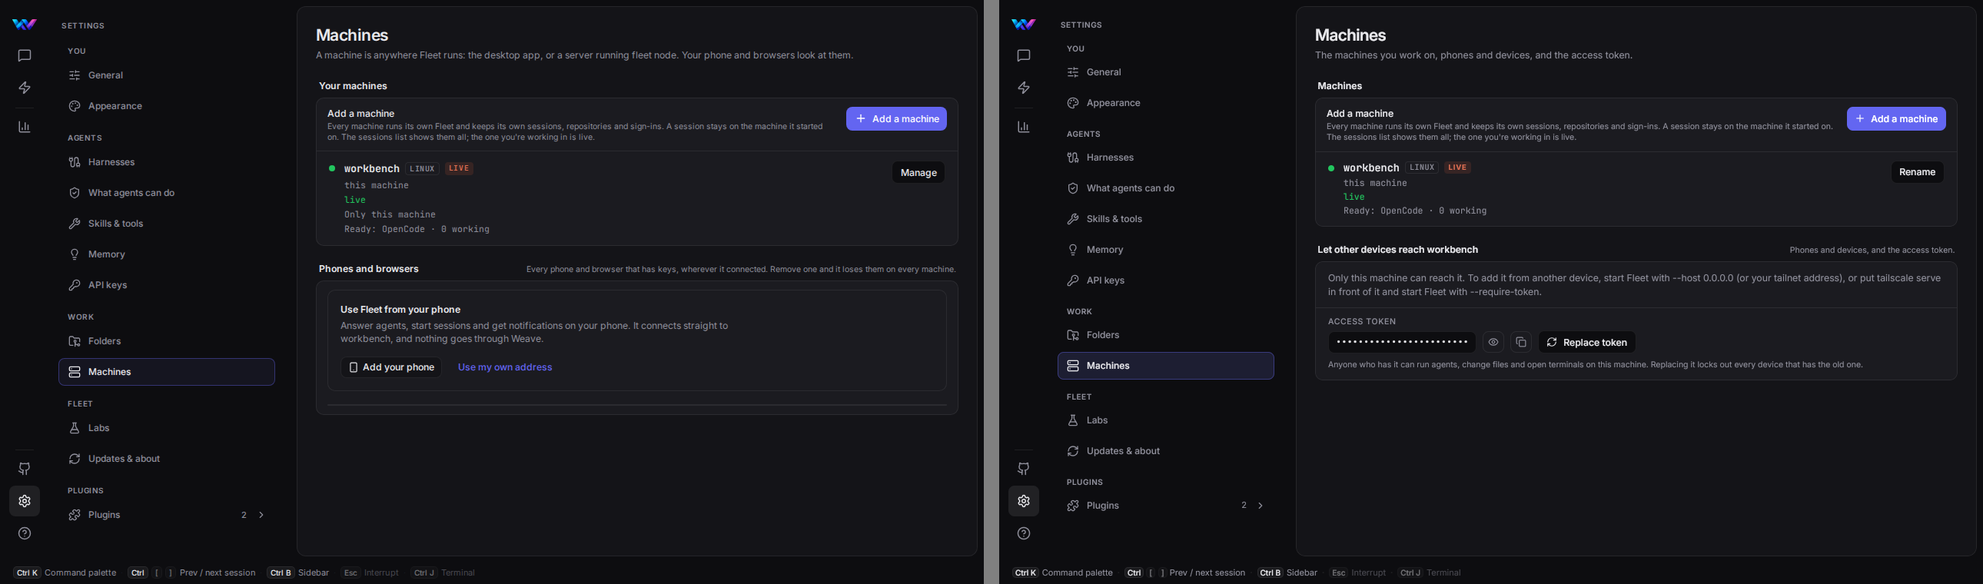
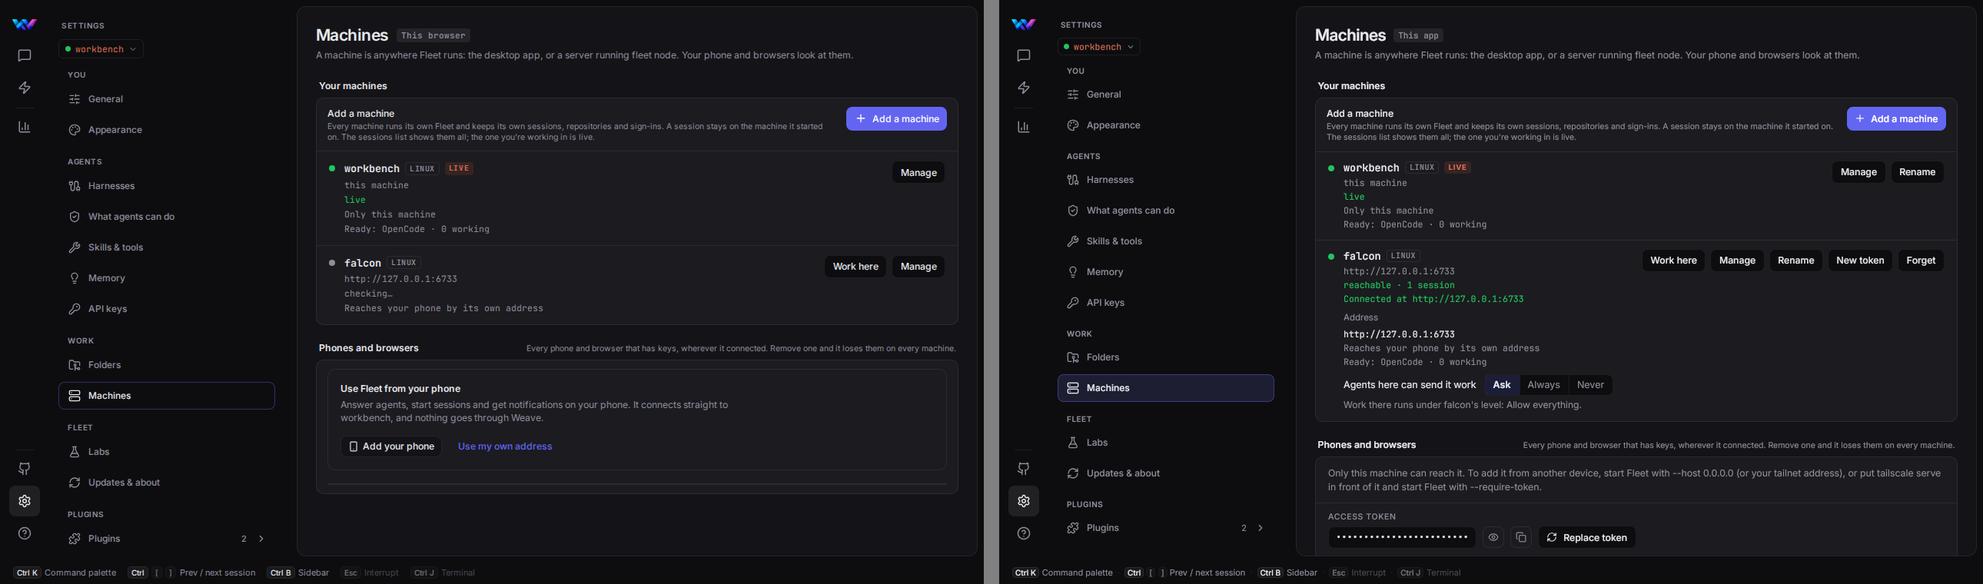
Component 26, piece F: the Machines list (page line, Your machines, reach line, Manage, Fleet-wide Forget) (#455)

diff --git a/src/tests_machines_page.rs b/src/tests_machines_page.rs
@@ -140,7 +140,10 @@ fn asks_before_forgetting_a_machine_and_keeps_it_when_cancelled() {
     let mut rt = page();
     click(&mut rt, "machine-forget-m-falcon");
     let c = rt.state.ui.confirm.as_ref().expect("asked");
-    assert_eq!((c.title.as_str(), c.confirm_label.as_str(), c.destructive), ("Forget falcon?", "Forget machine", true));
+    assert_eq!(
+        (c.title.as_str(), c.confirm_label.as_str(), c.destructive),
+        ("Forget falcon on every machine in your Fleet?", "Forget falcon", true)
+    );
     click(&mut rt, "confirm-cancel");
     assert!(rt.state.ui.confirm.is_none());
     assert!(exists(&rt, "machine-card-m-falcon"), "cancelled: the machine stays");
@@ -356,4 +359,94 @@ fn the_access_is_read_once_per_visit_and_a_missing_one_is_said() {
     rig.rt.frame(FRAME);
     rig.wait("the access answer", |s| s.machine_page.access == AccessState::Unavailable);
     assert!(words(&rig.rt, "machine-access-note").contains("doesn't hand out access tokens"));
+}
+
+// ── the list (26 F) ────────────────────────────────────────────────────────────
+
+fn address(url: &str, kind: crate::fleet::machine::Kind) -> crate::fleet::machine::Address {
+    crate::fleet::machine::Address { url: url.into(), kind, learned: true, last_result: None, last_tried_at: None }
+}
+
+fn reach_state(mode: crate::fleet::machines::reach::ReachMode) -> crate::fleet::machines::reach::ReachState {
+    crate::fleet::machines::reach::ReachState {
+        available: true,
+        mode,
+        own_address: None,
+        own_port: 6262,
+        listening: vec![],
+        found: vec![],
+        tailscale: None,
+    }
+}
+
+#[test]
+fn gives_every_machine_a_line_on_how_a_phone_reaches_it_and_takes_out_let_other_devices_reach() {
+    use crate::fleet::machine::Kind;
+    use crate::fleet::machines::reach::ReachMode;
+    let mut rt = page();
+    rt.update(|s, _| {
+        if let Some(m) = s.machines.list.iter_mut().find(|m| m.id == "m-falcon") {
+            m.addresses = vec![address("http://falcon.tail4f2a.ts.net:6262", Kind::Tailnet)];
+        }
+        s.machine_data.reach = Some(reach_state(ReachMode::Home));
+    });
+    rt.frame(FRAME);
+    assert_eq!(words(&rt, "machine-reach-line-m-falcon"), "Only on Tailscale");
+    assert_eq!(
+        words(&rt, &format!("machine-reach-line-{}", crate::fleet::settings::HOME_MACHINE_KEY)),
+        "Reaches your phone on the home network"
+    );
+    let all: String = rt.elements().iter().filter_map(|e| e.text.clone()).collect();
+    assert!(all.contains(
+        "A machine is anywhere Fleet runs: the desktop app, or a server running fleet node. Your phone and browsers look at them."
+    ));
+    assert!(all.contains("Your machines"), "the group is named for what it lists");
+    assert!(!all.contains("Let other devices reach"), "the token card is Who can reach it, on home's own page");
+}
+
+#[test]
+fn a_machine_that_stopped_answering_says_so_in_the_error_colour() {
+    let mut rt = page();
+    rt.update(|s, _| {
+        s.machines.others.entry("m-falcon".into()).or_default().error = Some("down".into());
+    });
+    rt.frame(FRAME);
+    let line = card_of(&rt, "m-falcon").reach.unwrap();
+    assert!(line.text.starts_with("Off since "), "the last read's time, as Fleet says it: {}", line.text);
+    rt.update(|s, _| s.machines.others.entry("m-falcon".into()).or_default().loaded_at = None);
+    let line = card_of(&rt, "m-falcon").reach.unwrap();
+    assert_eq!(line.text, "Not reachable");
+    assert_eq!(line.tone, crate::fleet::machines::reach::Tone::Out);
+}
+
+#[test]
+fn forgetting_a_machine_saying_it_reaches_every_machine() {
+    let mut rt = page();
+    click(&mut rt, "machine-forget-m-falcon");
+    let c = rt.state.ui.confirm.as_ref().expect("asked");
+    assert_eq!(c.title, "Forget falcon on every machine in your Fleet?");
+    assert_eq!(c.confirm_label, "Forget falcon");
+    assert!(c.destructive);
+    assert!(c.body.starts_with("Every machine drops it from its list and its keys stop working, even on machines that are off now"));
+    click(&mut rt, "confirm-cancel");
+    // An SSH machine keeps the old words: only this device lists it.
+    rt.update(|s, _| {
+        if let Some(m) = s.machines.list.iter_mut().find(|m| m.id == "m-falcon") {
+            m.ssh_destination = Some("maya@falcon.example".into());
+        }
+    });
+    rt.frame(FRAME);
+    click(&mut rt, "machine-forget-m-falcon");
+    let c = rt.state.ui.confirm.as_ref().expect("asked");
+    assert_eq!((c.title.as_str(), c.confirm_label.as_str()), ("Forget falcon?", "Forget machine"));
+}
+
+#[test]
+fn manage_opens_the_machines_own_page_and_work_here_is_not_on_the_live_machine() {
+    let mut rt = page();
+    let home = crate::fleet::settings::HOME_MACHINE_KEY;
+    assert!(!exists(&rt, &format!("machine-open-{home}")), "the live machine has no Work here");
+    assert!(exists(&rt, "machine-open-m-falcon"));
+    click(&mut rt, "machine-manage-m-falcon");
+    assert_eq!(rt.state.machine_page.managing.as_deref(), Some("m-falcon"));
 }

diff --git a/src/fleet/machine_actions.rs b/src/fleet/machine_actions.rs
@@ -109,6 +109,8 @@ pub struct Page {
     pub copied: Option<(String, f64)>,
     /// The page was opened once, so the access is read once per visit.
     pub opened: bool,
+    /// The machine whose own page is open (Manage); piece G draws the page.
+    pub managing: Option<String>,
     /// The address lists' own state (`MachineAddressList.vue`).
     pub addresses: super::machine_addresses::Lists,
 }
@@ -175,10 +177,17 @@ impl State {
             return false;
         }
         self.machine_page.access = AccessState::Loading;
+        // The reach line on home's card needs who the desktop app lets reach it.
+        self.read_reach();
         if let Some(link) = self.link.clone() {
             link.off_thread(read_access, |s, _, access| s.machine_page.access = access);
         }
         true
+    }
+
+    /// Manage (`page.open`): the section gives way to the machine's own page. Piece G draws it.
+    pub fn manage_machine(&mut self, key: &str) {
+        self.machine_page.managing = Some(key.to_string());
     }
 
     // ---- rename -----------------------------------------------------------------------------------------------------------
@@ -354,11 +363,28 @@ impl State {
     /// The Forget button (`forget`): asks first. Its sessions stay on the machine; this app just stops listing them.
     pub fn ask_forget_machine(&mut self, key: &str, tx: &mut Tx) {
         let Some(name) = self.card_name(key).filter(|_| key != HOME_MACHINE_KEY) else { return };
+        // An SSH machine is only this device's own entry; any other is forgotten by every machine in the Fleet (#1087).
+        let ssh = self.machines.machine(key).is_some_and(|m| m.ssh_destination.is_some());
+        let (title, body, confirm_label) = if ssh {
+            (
+                format!("Forget {name}?"),
+                format!("Its sessions stay on {name}; this device just stops listing them."),
+                "Forget machine".to_string(),
+            )
+        } else {
+            (
+                format!("Forget {name} on every machine in your Fleet?"),
+                format!(
+                    "Every machine drops it from its list and its keys stop working, even on machines that are off now: they hear when they're back. Its sessions stay on {name}. To use it again, add it again with its pairing code."
+                ),
+                format!("Forget {name}"),
+            )
+        };
         let confirm = Confirm {
-            title: format!("Forget {name}?"),
+            title,
             subject: name.clone(),
-            body: format!("Its sessions stay on {name}; this device just stops listing them."),
-            confirm_label: "Forget machine".into(),
+            body,
+            confirm_label,
             busy_label: "Forgetting…".into(),
             error_message: "Couldn't forget the machine.".into(),
             destructive: true,

diff --git a/src/fleet/machine_card.rs b/src/fleet/machine_card.rs
@@ -3,6 +3,7 @@
 //! draws it, so every word is testable without a window.
 use super::machine::{Address, AddressResult, Kind, kind_of};
 use super::machine_diagnosis::Diagnosis;
+use super::machines::reach::{ReachLine, ReachLineInput};
 use super::machines::{AgentWork, Capabilities, Entry, Machines, Source};
 use crate::State;
 
@@ -38,6 +39,8 @@ pub struct Card {
     pub route: Option<Route>,
     /// Where the machine can be reached, in the order Fleet tries them (`addressesOf`); none for home or an SSH machine.
     pub addresses: Vec<AddressRow>,
+    /// How a phone reaches it (`reachOf`); set by `State::machine_cards`, which knows home's access and reach.
+    pub reach: Option<ReachLine>,
 }
 
 /// `routeLine`: how this app is connected, from the kind of the address in use.
@@ -194,6 +197,7 @@ impl Machines {
                     diagnosis: why,
                     route,
                     addresses,
+                    reach: None,
                 }
             })
             .collect()
@@ -201,10 +205,35 @@ impl Machines {
 }
 
 impl State {
+    /// `reachOf` (`use-machine-lines.ts`): home's addresses come from its access, another machine's from its own list.
+    fn reach_of(&self, card: &Card, offset: impl Fn(i64) -> i64) -> ReachLine {
+        use super::machine_actions::AccessState;
+        let kinds: Vec<Kind> = if card.is_home {
+            match &self.machine_page.access {
+                AccessState::Loaded(a) => a.addresses.iter().map(|x| kind_of(&x.url)).collect(),
+                _ => Vec::new(),
+            }
+        } else {
+            self.machines.machine(&card.key).map(|m| m.addresses.iter().map(|a| a.kind).collect()).unwrap_or_default()
+        };
+        let state = self.machine_data.reach.as_ref().filter(|r| card.is_home && r.available);
+        let loaded_at = self.machines.others.get(&card.key).and_then(|o| o.loaded_at);
+        let input = ReachLineInput {
+            answering: self.machines.is_answering(&card.key),
+            offline_since: loaded_at,
+            addresses: &kinds,
+            reach_mode: state.map(|r| r.mode),
+            own_address: self.machine_data.reach.as_ref().and_then(|r| r.own_address.as_deref()),
+        };
+        super::machines::reach::reach_line(&input, offset(loaded_at.unwrap_or(0)))
+    }
+
     /// The cards, with an address list drawn in the order just asked for while that order is being saved.
     pub fn machine_cards(&self) -> Vec<Card> {
         let mut cards = self.machines.cards();
+        let offset = |ms: i64| crate::conv::time::local_offset_at(ms);
         for card in &mut cards {
+            card.reach = Some(self.reach_of(card, offset));
             if let Some(order) = self.machine_page.addresses.order.get(&card.key) {
                 card.addresses.sort_by_key(|a| order.iter().position(|u| *u == a.url).unwrap_or(usize::MAX));
             }

diff --git a/src/view/machines_page.rs b/src/view/machines_page.rs
@@ -1,5 +1,5 @@
 //! Settings → Machines (`MachinesSection.vue`, inside `SettingsPage.vue`'s detail pane): the machines this app knows as cards, and
-//! "This machine", how other devices reach it, with its access token. `settings.rs` mounts `content` as the Machines page. The
+//! "Phones and browsers", which holds how other devices reach this machine and its access token until pieces G and I move them. `settings.rs` mounts `content` as the Machines page. The
 //! pairing form is piece K's, the address list and route line piece M's, phones are out.
 use super::machine_card::{card, faded};
 use super::settings::kit::{self, Row};
@@ -169,7 +169,6 @@ fn token_block(s: &State, t: &Theme, access: &Access) -> El {
 }
 
 fn access_group(s: &State, t: &Theme) -> El {
-    let name = s.machines.home.as_ref().map_or("This machine", |h| h.name.as_str());
     let rows =
         match &s.machine_page.access {
             AccessState::Loaded(access) => access_rows(s, t, access),
@@ -196,7 +195,13 @@ fn access_group(s: &State, t: &Theme) -> El {
                 )]
             }
         };
-    kit::group(t, "phones", &format!("Let other devices reach {name}"), Some("Phones and devices, and the access token."), rows)
+    kit::group(
+        t,
+        "phones",
+        "Phones and browsers",
+        Some("Every phone and browser that has keys, wherever it connected. Remove one and it loses them on every machine."),
+        rows,
+    )
 }
 
 /// The page's content: the title and its line, then the groups. The Settings shell (`settings.rs`) gives it the sheet and the scroll.
@@ -226,6 +231,6 @@ pub fn content(s: &State, t: &Theme) -> El {
         .w_full()
         .gap(21.0)
         .child(header)
-        .child(kit::group(t, "machines", "Machines", None, rows))
+        .child(kit::group(t, "machines", "Your machines", None, rows))
         .child(access_group(s, t))
 }

diff --git a/src/view/machine_card.rs b/src/view/machine_card.rs
@@ -6,6 +6,7 @@ use crate::fleet::machine_actions::{RENAME_FIELD, TOKEN_FIELD, parse_agent_work}
 use crate::fleet::machine_card::{Card, Tone};
 use crate::fleet::machine_diagnosis::{Diagnosis, StepState};
 use crate::fleet::machines::AgentWork;
+use crate::fleet::machines::reach::Tone as ReachTone;
 use crate::icons::{CHECK, CHEVRON_DOWN, CHEVRON_RIGHT, CIRCLE, CIRCLE_ALERT, X};
 use crate::theme::{RADIUS_BTN, Theme, mono, sans};
 use crate::ui::rem;
@@ -284,6 +285,10 @@ pub fn card(s: &State, t: &Theme, c: &Card) -> El {
     if let Some(list) = super::machine_addresses::list(s, t, c) {
         names = names.child(list);
     }
+    if let Some(line) = &c.reach {
+        let ink = if line.tone == ReachTone::Out { t.error_text } else { t.muted };
+        names = names.child(text(line.text.clone()).key(format!("machine-reach-line-{}", c.key)).font(small).color(ink).wrap().w_full());
+    }
     if let Some(line) = &c.capabilities {
         let mut e = text(line.clone()).key(format!("machine-capabilities-{}", c.key)).font(small).color(t.muted).wrap().w_full();
         if let Some(versions) = &c.versions {
@@ -314,6 +319,12 @@ pub fn card(s: &State, t: &Theme, c: &Card) -> El {
             actions = actions
                 .child(plain_button(t, format!("machine-open-{}", c.key), "Work here").on_press(move |s: &mut State| s.work_here(&open)));
         }
+        let manage = c.key.clone();
+        actions = actions.child(
+            plain_button(t, format!("machine-manage-{}", c.key), "Manage")
+                .label(format!("{}'s page", c.name))
+                .on_press(move |s: &mut State| s.manage_machine(&manage)),
+        );
         actions = actions.child(
             plain_button(t, format!("machine-rename-{}", c.key), "Rename")
                 .on_press_tx(move |s: &mut State, tx: &mut Tx| s.start_card_rename(&rename, tx)),

diff --git a/src/fleet/settings_nav.rs b/src/fleet/settings_nav.rs
@@ -71,7 +71,9 @@ impl Page {
             Page::Skills => "What agents can use: skills, tools and, with Mods on, mods.",
             Page::Memory => "What Fleet remembers about each repository.",
             Page::Folders => "Where your repositories are, how worktrees are named, and the disk they take.",
-            Page::Machines => "The machines you work on, phones and devices, and the access token.",
+            Page::Machines => {
+                "A machine is anywhere Fleet runs: the desktop app, or a server running fleet node. Your phone and browsers look at them."
+            }
             Page::Labs => "Experiments. They can change or go away, and each is off until you turn it on.",
             Page::Updates => "Every version and update: Fleet, harnesses and machines, and what's new.",
             Page::Credentials => "Credentials for model providers.",

diff --git a/src/fleet/machines/data.rs b/src/fleet/machines/data.rs
@@ -80,6 +80,11 @@ impl State {
     /// Reads who can reach the desktop app (`useMachineReach.load`). Without an answer the page behaves as for a Fleet that can't
     /// change it.
     pub fn load_reach(&mut self, _tx: &mut Tx) {
+        self.read_reach();
+    }
+
+    /// `load_reach` for a caller with no `Tx` (the page's visit, run from `poll`).
+    pub fn read_reach(&mut self) {
         let Some(link) = self.link.clone() else { return };
         link.off_thread(reach::load, |s, _, result| s.machine_data.reach = result.ok().flatten());
     }

diff --git a/src/tests_settings_labs.rs b/src/tests_settings_labs.rs
@@ -30,6 +30,14 @@ fn doesn_t_offer_to_keep_machines_live_with_only_this_one() {
 }
 
 #[test]
+fn has_no_your_fleet_switch_it_is_always_on() {
+    let r = rig(&[]);
+    assert!(r.info("labs-section").is_some());
+    assert!(r.info("your-fleet-switch").is_none());
+    assert!(!r.words().contains("Your Fleet"));
+}
+
+#[test]
 fn offers_it_off_once_there_s_another_machine_and_saves_the_choice() {
     let mut r = rig_with_machines(&[]);
     assert_eq!(r.info("live-machines-switch").unwrap().label.as_deref(), Some("Keep every machine live"));

diff --git a/docs/parity/26-parity-audit.md b/docs/parity/26-parity-audit.md
@@ -117,17 +117,17 @@ phone-reach.ts; `components/onboarding/FirstRunFleet.vue`.
 
 | # | Fleet | Source | Native |
 |---|---|---|---|
-| 1.40 | The page's line: "A machine is anywhere Fleet runs: the desktop app, or a server running fleet node. Your phone and browsers look at them." | #1075 SettingsPage.vue | None: old line (`src/fleet/settings_nav.rs`) |
-| 1.41 | Group "Your machines": the Add a machine row as before; after an add, "Added &lt;name&gt;. Its sessions are in the sessions list." | #1088 MachinesSection.vue | Partial: group named "Machines" |
+| 1.40 | The page's line: "A machine is anywhere Fleet runs: the desktop app, or a server running fleet node. Your phone and browsers look at them." | #1075 SettingsPage.vue | **Done (26 F)** (`settings_nav.rs` `Page::line`, asserted in `tests_machines_page`) |
+| 1.41 | Group "Your machines": the Add a machine row as before; after an add, "Added &lt;name&gt;. Its sessions are in the sessions list." | #1088 MachinesSection.vue | **Done (26 F)**: the group is "Your machines"; "Added <name>. Its sessions are in the sessions list." was already drawn (17 K) |
 | 1.42 | Each machine (`machine-card`, padding 12/16, gap 12): 8 px dot, name mono 13.5/600, OS chip, Live tag; location ("this machine", the base URL, "Over SSH as &lt;dest&gt;"); the state line as before | #1088 MachinesSection.vue, use-machine-lines.ts | Done for these parts (`src/view/machine_card.rs`) |
-| 1.43 | The **reach line** (`machine-reach-line`, error colour when out): "Off since HH:MM", "Not reachable", "Only this machine", "Reaches your phone at &lt;address&gt;", "…on the home network", "Only on Tailscale", "…over Tailscale and the home network", "…over Tailscale", "…by its own address" | #1088 `lib/machine-reach-line.ts` (+ 5 tests) | None Data done (26 E): `fleet/machines/reach.rs` `reach_line` (5 tests); drawn in F. |
+| 1.43 | The **reach line** (`machine-reach-line`, error colour when out): "Off since HH:MM", "Not reachable", "Only this machine", "Reaches your phone at &lt;address&gt;", "…on the home network", "Only on Tailscale", "…over Tailscale and the home network", "…over Tailscale", "…by its own address" | #1088 `lib/machine-reach-line.ts` (+ 5 tests) | **Done (26 F)**: `State::machine_cards` fills `Card::reach` from `reach_line`; drawn under the state line, error colour when out (`machine_card.rs`); home's reach is read once per visit (`read_reach`) |
 | 1.44 | The capability line "Ready: … · N working · N need you", harness versions as its tooltip | #1088 use-machine-lines.ts | Done (piece 17) |
-| 1.45 | Buttons: **Work here** (not on the live machine) and **Manage** (aria-label "&lt;name&gt;'s page"), which replaces the section with the machine's page. Rename, New token, agent work, Forget, the address list, Details and job seats leave the list | #1088 MachinesSection.vue | None: inline Rename and the rest (`machines_page.rs`, `machine_card.rs`, `machine_addresses.rs`) |
+| 1.45 | Buttons: **Work here** (not on the live machine) and **Manage** (aria-label "&lt;name&gt;'s page"), which replaces the section with the machine's page. Rename, New token, agent work, Forget, the address list, Details and job seats leave the list | #1088 MachinesSection.vue | **Partial (26 F)**: **Work here** (not on the live machine) and **Manage** (`aria-label` "<name>'s page") are drawn; Manage sets `machine_page.managing`, which G draws. Rename, New token, agent work, Forget, the address list, Details and job seats **stay on the list until G**: Manage opens nothing yet, so taking them off now would make them unreachable |
 | 1.46 | A machine's page: title the machine's name, line "Everything about this machine: how it is reached, and what it keeps.", trail "Machines" back | #1088 MachinePage.vue, use-machine-page.ts, SettingsPage.vue | None |
 | 1.47 | "About this machine": the list's lines plus the route line ("Connected over Tailscale…", "Tailscale isn't answering"); agent work (Ask, Always, Never and "Work there runs under &lt;name&gt;'s level: &lt;level&gt;."); job seats with Jobs on (23 14.7, 17.69); a Details fold with the diagnosis and Try again; Work here, Rename (inline, 64), Forget (not on home) | #1088 MachinePage.vue | Partial: the parts exist inline on the list Data done (26 E): the route line's words wait for F; the reach line (`reach_line`) and Fleet-wide Remove words are in `fleet/machines/`. |
 | 1.48 | "Key and addresses" (not home; hint "What this browser uses to reach the machine."): the address list; "This browser holds a key for &lt;name&gt;. If it stopped working, give it a new one." with New token and a masked "Paste the new token" field | #1088 MachinePage.vue | Partial: inline, token shown as typed (17 J(2), K(2)) |
 | 1.49 | "Who can reach it" (home only): reach off "Reachable from **this machine only**. Turn it on to use &lt;name&gt; from your phone or another machine." + **Let others reach &lt;name&gt;**; reach on "Reachable from other devices: **&lt;label&gt;**. Each one needs its own key." + Change; the Tailscale note; addresses with a kind chip and Copy; the access token (24 bullets, Show/Hide, Copy, Replace token) | #1088 MachinePage.vue, use-home-access.ts | Partial: the token card exists as "Let other devices reach &lt;name&gt;" (`machines_page.rs:199`) Data done (26 E): `reach::load`/`save`, `ReachState`, `State::load_reach`/`set_reach`; the page is H/J. |
-| 1.50 | Forget, Fleet-wide: "Forget &lt;name&gt; on every machine in your Fleet?" / "Every machine drops it from its list and its keys stop working, even on machines that are off now: they hear when they're back. Its sessions stay on &lt;name&gt;. To use it again, add it again with its pairing code." / **Forget &lt;name&gt;**; an SSH machine keeps the old words; the page closes when the machine leaves | #1087 MachinesSection.vue, MachinePage.vue | None: old words (`src/fleet/machine_actions.rs:360`) |
+| 1.50 | Forget, Fleet-wide: "Forget &lt;name&gt; on every machine in your Fleet?" / "Every machine drops it from its list and its keys stop working, even on machines that are off now: they hear when they're back. Its sessions stay on &lt;name&gt;. To use it again, add it again with its pairing code." / **Forget &lt;name&gt;**; an SSH machine keeps the old words; the page closes when the machine leaves | #1087 MachinesSection.vue, MachinePage.vue | **Done (26 F)**: `ask_forget_machine` says the Fleet-wide words for a machine home reaches by address and the old words for an SSH one (test "forgetting a machine, saying it reaches every machine"). "The page closes when the machine leaves" is G (no page yet) |
 | 1.51 | Add a machine: four tabs "How to add the machine", opening on **Found**; Set it up from here (SSH, unchanged); On a new server; Paste a pairing link. Cancel reads "Close" while an SSH set-up runs | #1084, #1089 MachinesSection.vue | None: the link form only (`src/view/add_machine.rs`); SSH is owner decision 5 |
 | 1.52 | **Found**: `GET /api/machines/found` every 4 s; intro "On the other machine, run `fleet node up` (or `fleet node pair`)…"; "Looking on Tailscale and your home network…"; empty state "No machine is waiting" with "Paste a pairing link instead"; rows "&lt;name&gt; · &lt;OS&gt;" and "On Tailscale. Waiting to join." / "On your home network. Waiting to join."; the code field "Check the code in &lt;name&gt;'s terminal" (hint "ABCD-" + 4 more, or the whole code if it starts with the hint); **Add &lt;name&gt;** / "Checking…"; errors with the diagnosis panel | #1084 FoundMachinesCard.vue (+ 5 tests) | None Data done (26 E): `found.rs` `load_found` (every `LOOK_EVERY` = 4 s, timer waits for the view), `FoundMachine::code_for`, labels; the card is H. |
 | 1.53 | **On a new server**: `POST /api/machines/join-code`; "Making a join code…"; the `curl … install.sh \| sh -s -- --join '<target>'` line with Copy; the warning "Works once, for 30 minutes. Anyone who has the line can add a machine to &lt;name&gt;, so treat it like a password."; "Waiting for a machine to join… The code expires &lt;countdown&gt;." (reads `/api/machines` every 3 s; a new id closes the form with its name); "This code has expired." + Make a new code; "Couldn't make a join code." | #1089 NewServerCard.vue (+ 8 tests) | None Data done (26 E): `found.rs` `make_join_code`, `JoinState`; the countdown, the 3 s read of `/api/machines` and the card are H. The v0.74.0 scratch Fleet answers 400 ("only listens on this machine") until reach is on. |
@@ -139,7 +139,7 @@ phone-reach.ts; `components/onboarding/FirstRunFleet.vue`.
 | 1.59 | The join notice: every screen looks for waiting machines every 20 s; "&lt;name&gt; wants to join your Fleet" / "It is waiting on Tailscale (your home network). Check the code it shows, then add it."; chip "&lt;name&gt; wants to join"; **Add &lt;name&gt;** (Settings → Machines → Add → Found) and Not now. Always on since #1094 | #1086, #1094 use-join-prompt.ts, AppShell.vue (+ 2 tests) | None |
 | 1.60 | The desktop's first run, once (`fleet.first-run-fleet.v1`): "Found your Fleet" (the Found card and Not now), then "Where should new sessions run?" with a button per machine ("This machine (&lt;name&gt;)" for the live one) | #1086 FirstRunFleet.vue (+ 3 tests) | None |
 | 1.61 | The setup wizard's ready step: "A machine is anywhere Fleet runs…" and the "Use Fleet from your phone" card with Add your phone → Settings → Machines | #1075 HarnessSetupWizard.vue (+ 1 test) | None |
-| 1.62 | Labs "Your Fleet" row added then removed (always on); test "has no Your Fleet switch: it is always on" | #1079 → #1094 LabsSection.vue | Done (no row); the test isn't ported |
+| 1.62 | Labs "Your Fleet" row added then removed (always on); test "has no Your Fleet switch: it is always on" | #1079 → #1094 LabsSection.vue | Done (no row); test ported (26 F, `tests_settings_labs`) |
 
 #### 1e. The desktop app (component 24)
 
@@ -526,6 +526,13 @@ then the walks (AE to AI), then the report.
   reach'", "forgetting a machine, saying it reaches every machine".
 - **Pictures:** this file's `machines-*` pair retaken: the list matching Fleet's, both themes; a second machine (a second
   scratch Fleet) for Work here.
+- **Done (26 F):** the page line, "Your machines", the reach line, Manage, Fleet-wide Forget, the Labs test. Left for
+  G on purpose: taking Rename, New token, agent work, Forget, the addresses and Details off the list (they need
+  Manage's page first), and the group below the list, which is still the token card under Fleet's "Phones and browsers"
+  heading and hint until G moves the token to home's page and I draws the devices. Pictures: `machines-dark.png` and
+  `machines-light.png` here (Fleet v0.74.0 left, native right, a second scratch Fleet as "falcon" with Work here).
+  Fleet's page shows falcon as "checking…" because the scratch browser can't read its sessions; native reads them
+  through home. Source read at weave-fleet `main` (4ea50d1): the v0.74.0 commit wasn't reachable in a shallow clone.
 
 ### G. Machines 3: a machine's own page
 

diff --git a/docs/PORT.md b/docs/PORT.md
@@ -166,7 +166,7 @@ records that commit in its checklist, so the port tracks Fleet as it is, not as 
 | | **Milestone 4: replaces Electron** | | | | |
 | 24 | Desktop shell | Starts its own server when none is running, one instance, tray, menus, notifications, deep links, window position, the shell environment. | weave-fleet's `desktop/src` | 1,200 (TS) | Done, 20 November 2026 (`docs/parity/24-desktop-shell.md`, weave-fleet `107c794`; the server's desktop mode checked live against the released server): pieces A (the server process: finding the binary, desktop-mode start, port, readiness, restarts, stop, log; first, for the owner's daily use; **done, 20 November 2026**: `src/desktop/` with `paths`, `server` (`FleetServer`, `Event`, `server_env`, `restart_delay`, `pick_port`) and `log`, no Rune in it, tested against a std-only fake server and once by hand against the released server), B (in the app: start when none runs, splash and error pages, stop on quit; **built, 20 November 2026**: `desktop::start`, `view::start_page`; its live check is J's), C (login shell environment; **done, 20 November 2026**: `desktop::shell_env` asks `$SHELL -ilc` off the UI thread, merges PATH and the other variables into the server's environment, tested with a fake shell and once live against the released server), D (a Fleet that wants its key: the "already runs" page; **built, 21 November 2026**: `Instance::requires_token`, `local_token`'s 32-character minimum and Fleet's two messages, `Phase::RunningFleet`, `useRunningFleet` in the settings file), E (closing, quitting, tray; **built, 20 November 2026**: `desktop::close` with the rules and the flow, `desktop::tray` over Rune's tray, `view::quit_dialog`, `fleet::http::desktop_working`, the updater stops its own Fleet first; CI only on Windows and macOS), F (notifications, decision 8; **built, 21 November 2026**: `desktop::notify` over `rune-notify` and, on Linux, `org.freedesktop.Notifications` through zbus; `fleet::notifications` with Fleet's rules; the Settings line is gone; Windows and macOS toasts by CI only), G (one instance, window place; **built, 20 November 2026**: `desktop::window` and `window_place`, the window opens where it was left and a second launch exits; Wayland keeps nothing, the first window's coming forward not seen on the virtual display), H (menus; **built, 20 November 2026**: `desktop::menu` lists them, `menu_bar` runs them: the macOS bar by Rune's menu items, palette entries elsewhere; macOS bar by CI only), I (right-click menu on text, the link rule's test; **built, 21 November 2026**: `ui::text_menu` draws Fleet's field, selection and link menus where Rune has none (Linux; macOS and Windows keep Rune's own for fields and selections, links are drawn everywhere), every field goes through its `text_input`; Electron's native menu not captured), J (the sweep; **done, 20 November 2026**: every row of `docs/parity/24-desktop-shell.md` is done or open with its reason and owner, all of Fleet's desktop tests accounted for, `scripts/smoke-desktop.sh` (24.152) passes against the app, and a live run on Linux (the app starting its own scratch Fleet: splash, the machine's key, the working-session quit question, the hide with its notification call, one instance, the window kept) in `shots/parity/24j-sweep/`). **Component 24 is done** on Linux; Windows and macOS are CI only. Open and owned elsewhere: the bundle, icon, installers and Windows smoke (25), spell check and Wayland window size (Rune), the updater's "sessions working" warning (9 V), Copy on tool output and terminal links. Fleet has no deep links; nothing to port. |
 | 25 | Packages and updates | Signed installers for Windows, macOS and Linux with the server inside, and self-update. **Self-update is built** (pulled forward from the rolling `latest` release: a status-bar item, one dialog, SHA-256 check, replace in place, restart; `src/update/`); signed installers and the server inside remain. | `.github/workflows/desktop-packages.yml` | | Planned (`docs/parity/25-packages-and-updates.md`, weave-fleet `c1a48bd`, 22 November 2026): pieces A (the server inside: pinned release archive, staged beside the app, Fleet's `check-bundled-server` tests; **done, 22 November 2026**: `packaging/server-version`, `scripts/fetch-server.sh`, `desktop::bundle` and its 8 ported cases, CI stages `fleet/` in the tar, zip and `.app`; the app started its bundled server from the tar on Linux; Windows and macOS packages by CI only), B (Linux AppImage and `.deb`; **done, 22 November 2026**: `scripts/make-deb.sh`, `make-appimage.sh`, `check-linux-packages.sh`, `packaging/` entry and hicolor icons, the window's app id `fleet-native`, a `.sha256` per Linux file; run under Xvfb from the AppImage and from the extracted `.deb`), C (Windows NSIS installer; **done, 22 November 2026**: `packaging/windows/installer.nsi`, `scripts/make-installer.ps1`, `check-windows-installer.ps1`: per user into `%LOCALAPPDATA%\Programs\Fleet-Native`, a Start-menu entry, an Apps entry with the version, the server inside, an uninstaller that leaves the data; CI installs, reinstalls and uninstalls it silently on Windows), D (macOS bundle with the server; **done, 22 November 2026**: `scripts/make-mac-app.sh` signs ad hoc inside out and titles the image, `check-mac-app.sh`, `check-mac-dmg.sh`; run on CI's macOS runner only), E (signing and notarising behind missing-secret checks; no secret exists yet), F (the updater for installers; **done, 23 November 2026**: `replace_folder` swaps the whole app folder with the server and rolls back on failure, an AppImage replaces itself as one file, a `.deb` install only links, "about N MB" in the dialog, `FLEET_NATIVE_UPDATES=off`, `latest.json` lists the new packages, Fleet's 13 updater tests under native names; run on Linux, Windows and macOS by CI), G (package smoke runs, the Windows smoke 24 left over; **done, 22 November 2026**: `scripts/smoke-desktop.ps1`, each package started and smoke-tested in CI on all three systems, `check-windows-runtime.ps1` reads every Windows binary's imports for the redistributable, packages uploaded for pull requests that touch packaging, `verify-release.yml` over every published package), H (the sweep). |
-| 26 | Parity audit | Every screen beside Fleet's once more; keyboard and screen reader pass; catch up with Fleet's latest release. Then replacing Electron is the owner's call. | every component's; `desktop/src` | | Planned (`docs/parity/26-parity-audit.md`, weave-fleet `0f832ca`, 22 November 2026; pictures against a scratch Fleet v0.74.0): piece A (the ledger: stale rows, `docs/RUNE.md`'s stale "can't" lines, this file's baseline) **done 22 November 2026**, piece B (colours and words, rows 1.1-1.9) **done 22 November 2026**, pieces C-D (catch-up: sending a prompt (**C done 22 November 2026**: rows 1.20-1.24), terminal codes and terminal sessions (**D done 22 November 2026**: rows 1.30-1.35)), E (done: the data, no view) and F-K (catch-up: Fleet's rebuilt Machines page in seven pieces: data, list, a machine's page, Add a machine, Phones and browsers, the reach dialog, the join notice and first run), L (the palette's last five: refresh, inline diffs, show all, zoom in and out, the wrapped description; rows 2.1-2.6 and 4.15) **done 22 November 2026**, M-Y (rows components 1-25 left open: palette, conversation, composer, session list, other machines, panel, terminal and side, Markdown look, Settings and frame, rail views, avatars, desktop, time and language), Z (motion), AA-AB (keyboard), AC-AD (screen readers), AE-AI (every screen once more, five walks), AJ (the report: ready to replace Electron?). |
+| 26 | Parity audit | Every screen beside Fleet's once more; keyboard and screen reader pass; catch up with Fleet's latest release. Then replacing Electron is the owner's call. | every component's; `desktop/src` | | Planned (`docs/parity/26-parity-audit.md`, weave-fleet `0f832ca`, 22 November 2026; pictures against a scratch Fleet v0.74.0): piece A (the ledger: stale rows, `docs/RUNE.md`'s stale "can't" lines, this file's baseline) **done 22 November 2026**, piece B (colours and words, rows 1.1-1.9) **done 22 November 2026**, pieces C-D (catch-up: sending a prompt (**C done 22 November 2026**: rows 1.20-1.24), terminal codes and terminal sessions (**D done 22 November 2026**: rows 1.30-1.35)), E (done: the data, no view), F (done 22 November 2026: the list: page line, "Your machines", the reach line, Manage and Work here, Fleet-wide Forget; Rename and the rest leave the list with G) and G-K (catch-up: Fleet's rebuilt Machines page in seven pieces: data, list, a machine's page, Add a machine, Phones and browsers, the reach dialog, the join notice and first run), L (the palette's last five: refresh, inline diffs, show all, zoom in and out, the wrapped description; rows 2.1-2.6 and 4.15) **done 22 November 2026**, M-Y (rows components 1-25 left open: palette, conversation, composer, session list, other machines, panel, terminal and side, Markdown look, Settings and frame, rail views, avatars, desktop, time and language), Z (motion), AA-AB (keyboard), AC-AD (screen readers), AE-AI (every screen once more, five walks), AJ (the report: ready to replace Electron?). |
 
 Between milestones, two sessions run on their own: one **catches the finished components up** with
 what changed in Fleet since they were ported, and one **moves Rune's pin** (all five revs, alone in

diff --git a/docs/RUNE.md b/docs/RUNE.md
@@ -2940,3 +2940,7 @@ whose order the file keeps, so it is a `Vec<(String, String)>` here, and a renam
   whole window scales, as the font size already did.
 - A `text(..)` with `.shrink()` and no `.truncate()` does not wrap on its own in a row; add `.wrap()` (the palette's
   descriptions).
+
+## Component 26, piece F (Machines: the list)
+
+- Nothing new about Rune: the reach line is a `text` under the state line, coloured by its tone. Build note: even `CARGO_BUILD_JOBS=1` can pass 5000 MB while compiling the test build of this crate (peak 4.8 GB, killed at 5000M twice, exit 143 or 137); 5600M finished.
